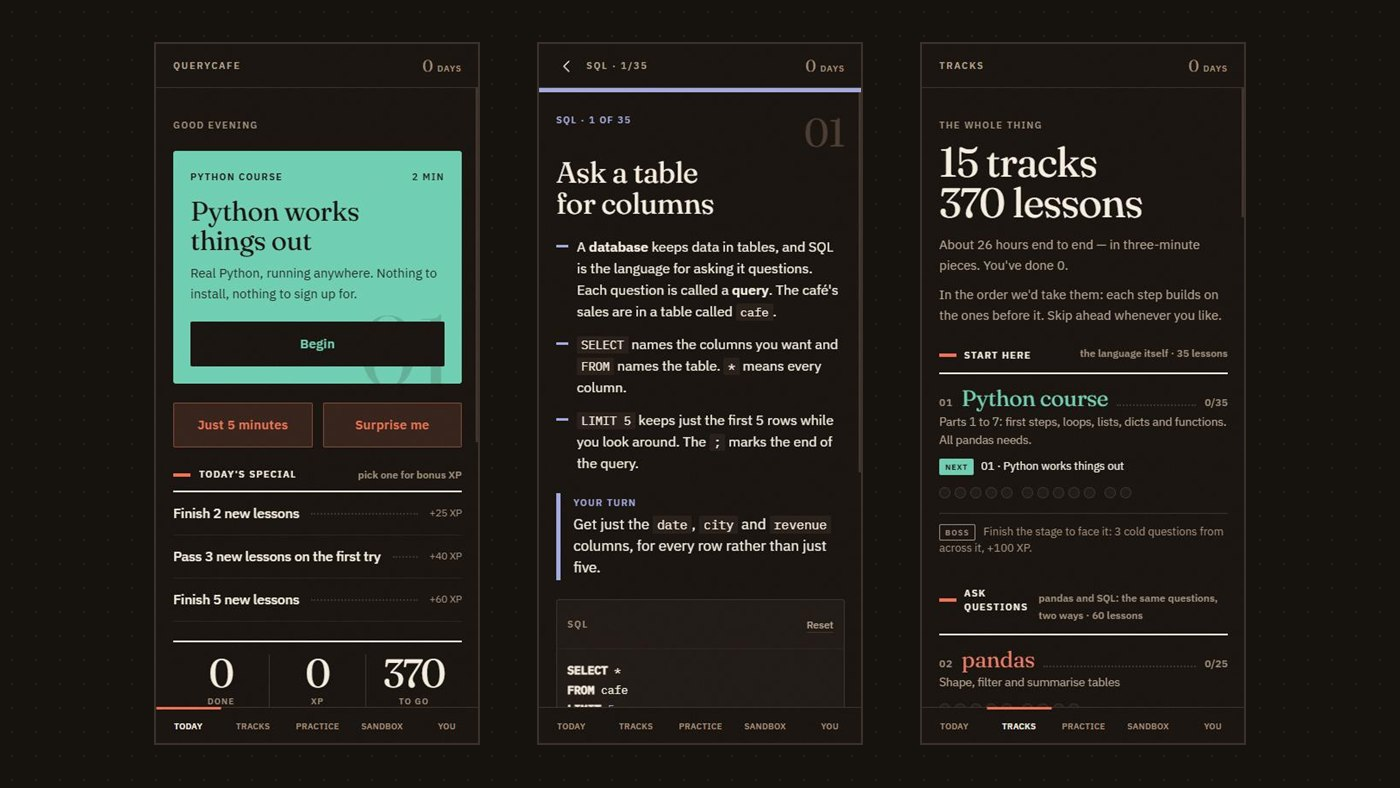
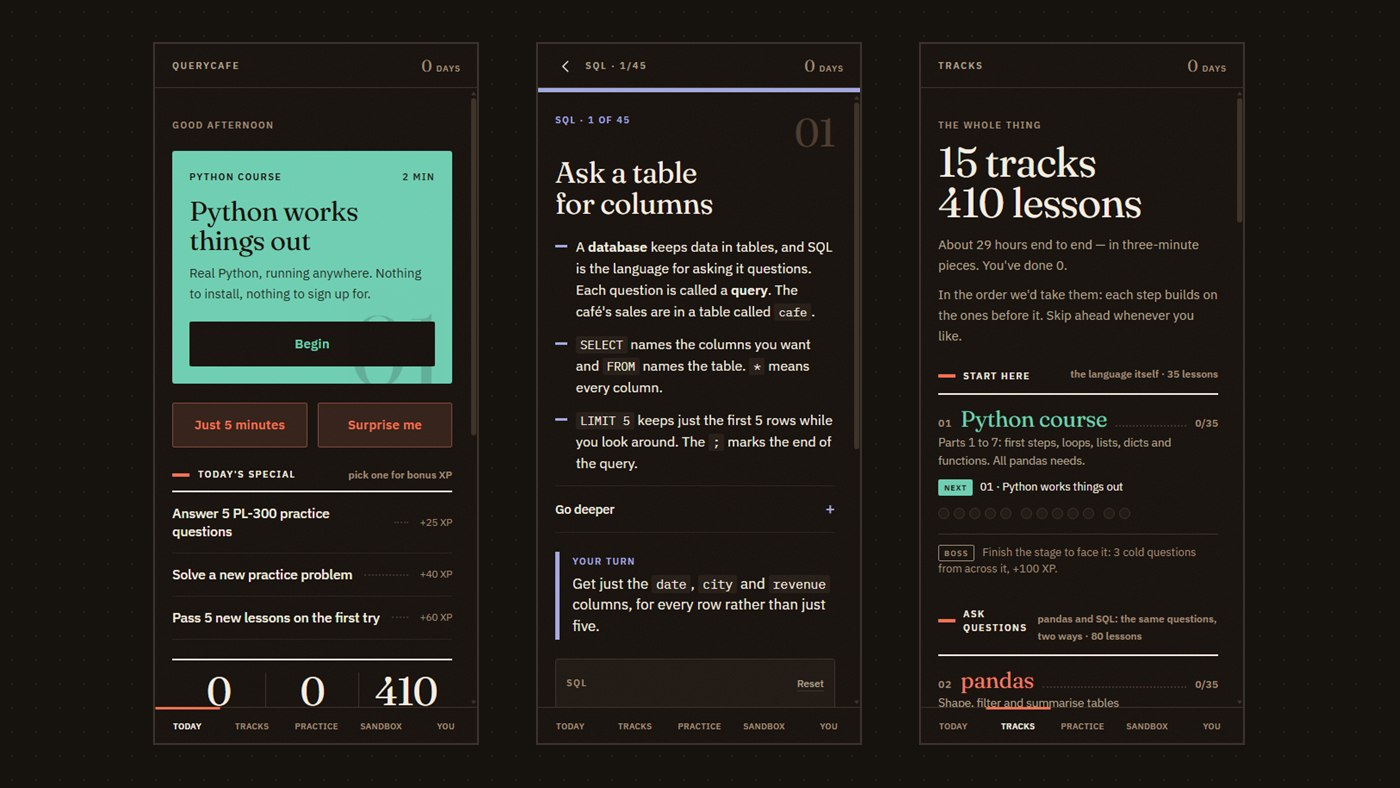
QueryCafe: 410 lessons, 159 problems, and the Go deeper folds
The app grew: deeper SQL, pandas and DAX tracks, a fourth project and
twenty harder practice problems. The counts in the card and write-up
match, the write-up mentions the optional Go deeper fold, and the
screenshot is retaken from the live app (the lesson now shows the fold,
Tracks shows 410).

diff --git a/js/app.js b/js/app.js
@@ -882,15 +882,15 @@
             liveLabel: 'Open QueryCafe',
             repo: 'https://github.com/TheLordBass/databites',
             gallery: [
-                { src: 'assets/shots/querycafe.jpg', cap: 'On a phone, which is what it was built for. Home leads with the next lesson, each lesson is three bullets and an editor, and the tracks screen lays everything out as a numbered path.', alt: 'Three QueryCafe phone screens: the home screen with one next lesson and a Begin button, the first SQL lesson with three short bullets above a SQL editor, and the tracks screen showing 15 tracks and 370 lessons as a numbered learning path.' }
+                { src: 'assets/shots/querycafe.jpg', cap: 'On a phone, which is what it was built for. Home leads with the next lesson, each lesson is three bullets and an editor, and the tracks screen lays everything out as a numbered path.', alt: 'Three QueryCafe phone screens: the home screen with one next lesson and a Begin button, the first SQL lesson with three short bullets above a SQL editor, and the tracks screen showing 15 tracks and 410 lessons as a numbered learning path.' }
             ],
             blocks: [
                 { h: 'What it is', p: [
-                    'A learning app that runs entirely in the browser. It began as pandas lessons I could do on my phone and kept growing: there are now 370 lessons across 15 tracks: 285 in Python (an 80-lesson course for complete beginners, plus pandas, messy data, statistics, AI and algorithms), 35 in SQL, 35 in DAX (10 of those on Power BI modelling) and 15 across three projects, laid out as a numbered path in the order to take them. On top of that are 139 practice problems and a PL-300 prep section with 107 exam-style questions for the Power BI Data Analyst exam.',
+                    'A learning app that runs entirely in the browser. It began as pandas lessons I could do on my phone and kept growing: there are now 410 lessons across 15 tracks: 295 in Python (an 80-lesson course for complete beginners, plus pandas, messy data, statistics, AI and algorithms), 45 in SQL, 45 in DAX (10 of those on Power BI modelling) and 25 across four projects, laid out as a numbered path in the order to take them. On top of that are 159 practice problems and a PL-300 prep section with 107 exam-style questions for the Power BI Data Analyst exam.',
                     'Nothing gets installed, and your code stays in the browser. Progress does too, unless you turn on sync: it copies your progress to a small Supabase database under a code, with no name or email attached, so a phone and a work computer can share it. After the first load it works with no connection. That first load pulls down about 25MB of Python runtime, so it is worth doing on wifi once.'
                 ]},
                 { h: 'Why I built it', p: [
-                    'Most data tutorials are built as long sessions that assume you can hold an hour of context in your head at once. That does not match how a lot of people learn, me included. So the home screen leads with one thing, the next lesson. Each concept gets three bullets at most before you type something, and getting stuck is one tap away from the answer with no penalty for taking it. A five minute session is still worth doing, and you are far more likely to come back tomorrow.'
+                    'Most data tutorials are built as long sessions that assume you can hold an hour of context in your head at once. That does not match how a lot of people learn, me included. So the home screen leads with one thing, the next lesson. Each concept gets three bullets at most before you type something, and getting stuck is one tap away from the answer with no penalty for taking it. The depth is still there for anyone who wants it: the SQL, pandas and DAX lessons each have an optional fold with why it works, the usual mistake and where it turns up at work. A five minute session is still worth doing, and you are far more likely to come back tomorrow.'
                 ]},
                 { h: 'How it was built', p: [
                     'With Claude, Anthropic\u2019s AI model. It was co-written with Claude from the first commit, and a lot of the code came out of that back and forth, the DAX engine included. It would feel wrong to put it on a portfolio without saying so.',

diff --git a/index.html b/index.html
@@ -509,7 +509,7 @@
             <article class="card project-card is-featured has-shot" data-category="python" data-project="databites">
                 <a class="project-shot" href="#" data-project="databites" aria-label="Open write-up: QueryCafe">
                     <img src="assets/shots/querycafe.jpg" width="1400" height="788" loading="lazy" decoding="async"
-                         alt="Three QueryCafe phone screens: the home screen with one next lesson and a Begin button, the first SQL lesson with three short bullets above a SQL editor, and the tracks screen showing 15 tracks and 370 lessons as a numbered learning path.">
+                         alt="Three QueryCafe phone screens: the home screen with one next lesson and a Begin button, the first SQL lesson with three short bullets above a SQL editor, and the tracks screen showing 15 tracks and 410 lessons as a numbered learning path.">
                 </a>
                 <div class="project-top">
                     <span class="project-kind">Pyodide · SQLite · JavaScript</span>
@@ -517,7 +517,7 @@
                 </div>
                 <p class="project-desc">
                     Short lessons that run in the browser with nothing to install. It started as pandas
-                    on my phone and is now 370 lessons across Python, SQL and DAX, 139 practice
+                    on my phone and is now 410 lessons across Python, SQL and DAX, 159 practice
                     problems and PL-300 exam prep. I built it with Claude as my coding partner, because most tutorials
                     assume you can hold an hour of context in your head at once, and some days I can't.
                 </p>
